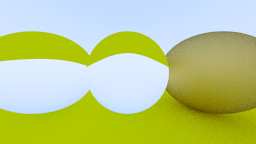
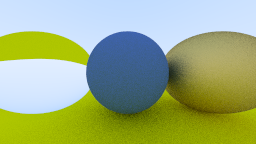
Added total internal reflection

Changed region(s): [[0.25, 0.1944, 0.8438, 1.0], [0.8438, 0.9722, 0.875, 1.0]]

diff --git a/PathTracer/material.h b/PathTracer/material.h
@@ -57,9 +57,20 @@ class dielectric : public material {
 			double ior_ratio = rec.front_face ? (1.0 / ior) : ior;
 
 			vec3 unit_direction = unit_vector(r_in.direction());
-			vec3 refracted = refract(unit_direction, rec.normal, ior_ratio);
+			double cos_theta = fmin(dot(-unit_direction, rec.normal), 1.0);
+			double sin_theta = sqrt(1.0 - cos_theta * cos_theta);
 
-			r_out = ray(rec.p, refracted);
+			bool total_internal_reflection = ior_ratio * sin_theta > 1.0;
+			vec3 direction;
+
+			if (total_internal_reflection) {
+				direction = reflect(unit_direction, rec.normal);
+			}
+			else {
+				direction = refract(unit_direction, rec.normal, ior_ratio);
+			}
+
+			r_out = ray(rec.p, direction);
 			return true;
 		}
 

diff --git a/PathTracer/PathTracer.cpp b/PathTracer/PathTracer.cpp
@@ -54,7 +54,7 @@ int main() {
 	hittable_list world;
 
 	auto material_ground = make_shared<lambertian>(color(0.8, 0.8, 0.0));
-	auto material_center = make_shared<dielectric>(1.5);
+	auto material_center = make_shared<lambertian>(color(0.1, 0.2, 0.5));
 	auto material_left = make_shared<dielectric>(1.5);
 	auto material_right = make_shared<metal>(color(0.8, 0.6, 0.2), 1.0);
 
